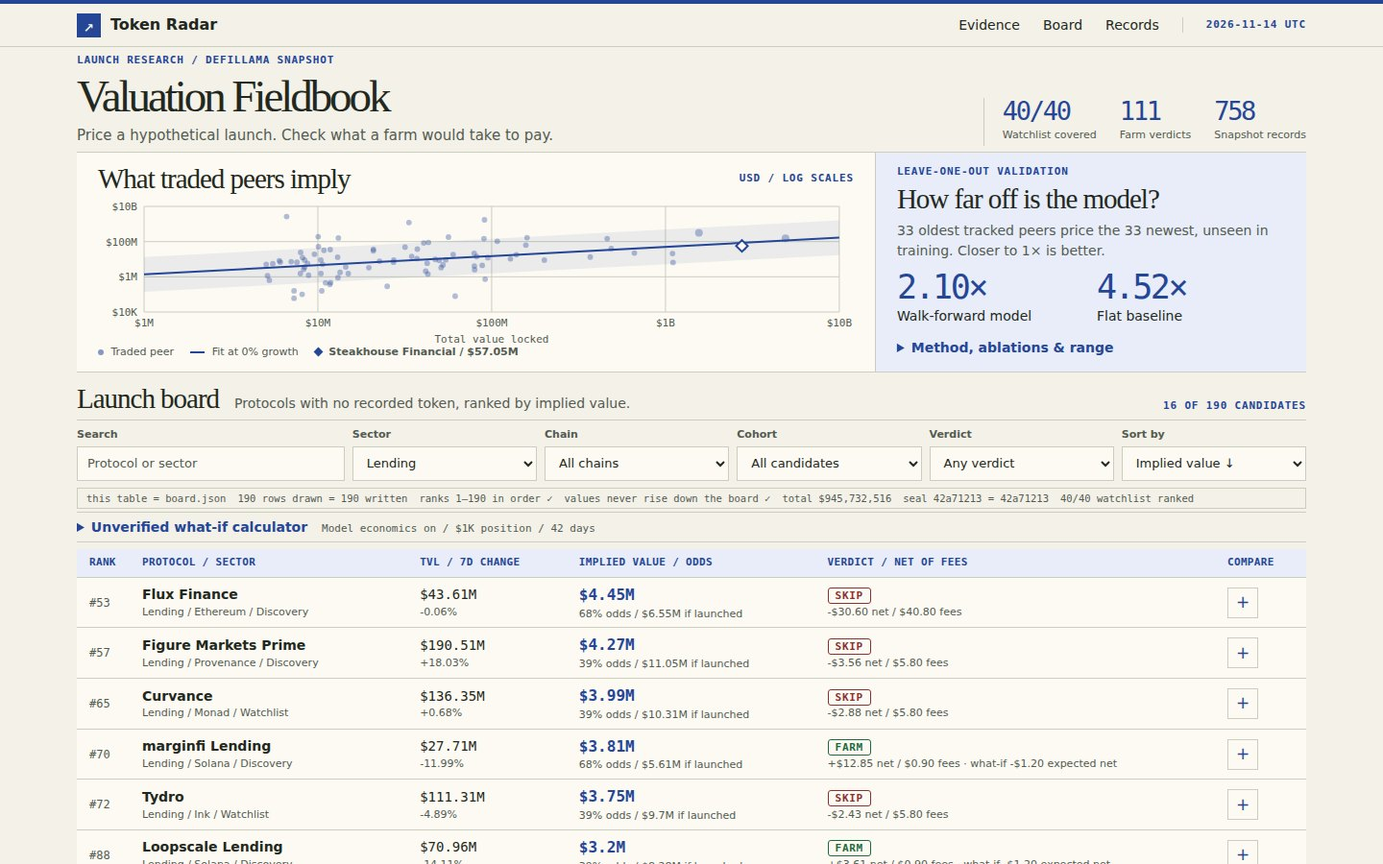
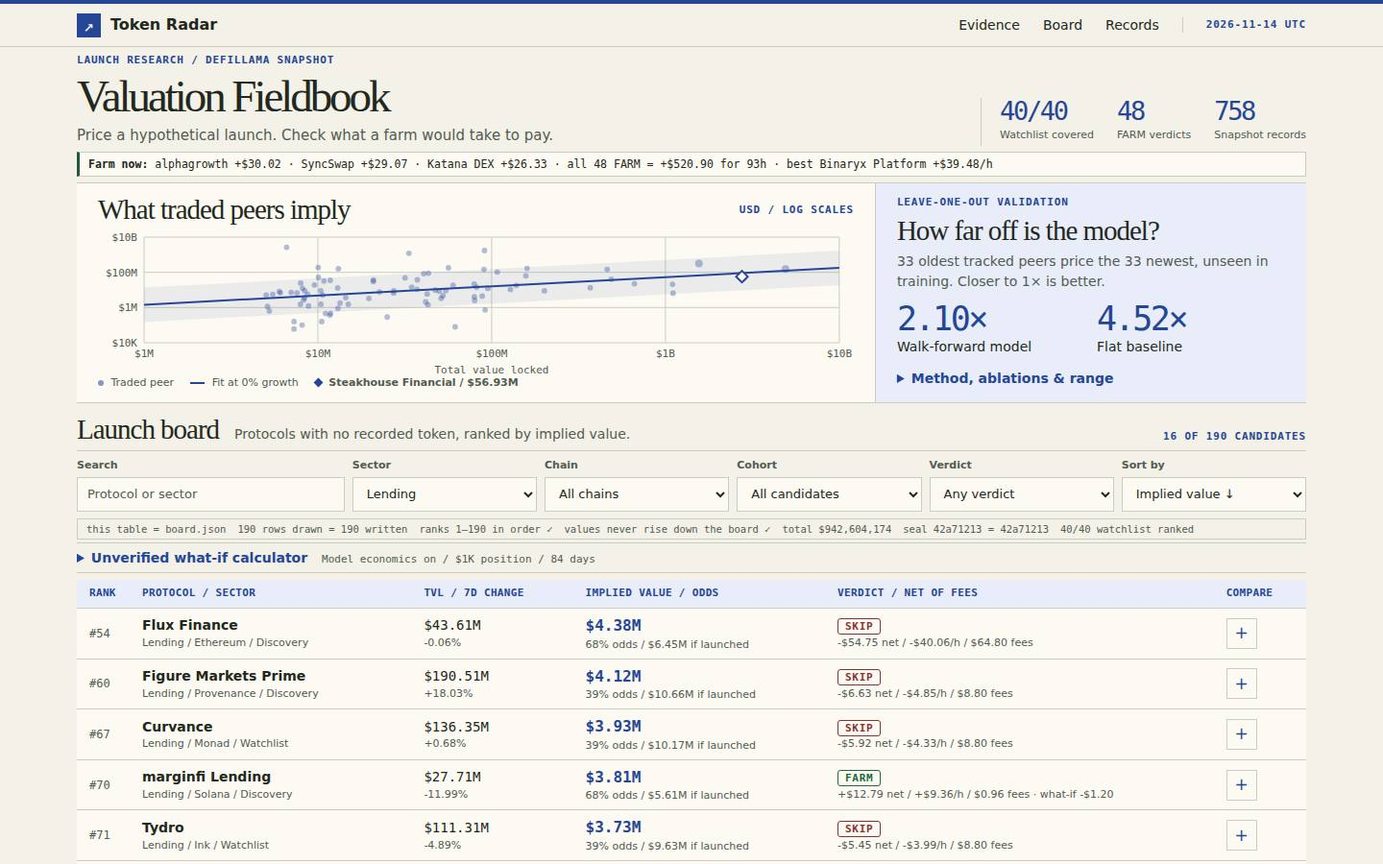
Split farm verdicts by the T-bill hurdle and lead with the decision
FARM now clears both fees and the yield the capital gives up; THIN clears
fees only. Holds run in 12-week blocks with a renewal budget from the cohort
odds. Momentum reads against the market's median week instead of zero, the
board opens with a farm-now strip and per-hour nets, and every dossier starts
with the arithmetic that decides it. Claims warn against paying and remind
to revoke approvals. Screenshots re-encoded smaller to keep the dossier lean.

diff --git a/dashboard/app.js b/dashboard/app.js
@@ -22,6 +22,10 @@
   const chosen = new Set();
   const pageSize = 10;
   let page = 0, active = rows[0], scenario = { ...defaults };
+  const farmRows = rows.filter(r => r.verdict === 'FARM');
+  const portfolioNet = farmRows.reduce((s, r) => s + r.plan.econ.netAfterYield, 0);
+  const portfolioMin = farmRows.reduce((s, r) => s + r.plan.econ.minutes, 0);
+  const bestHour = rows.reduce((b, r) => (r.plan.econ.netPerHour ?? -Infinity) > (b?.plan.econ.netPerHour ?? -Infinity) ? r : b, null);
   let previousFocus;
 
   function renderChart() {
@@ -58,14 +62,15 @@
 
   function renderEvidence() {
     $('edition').textContent = `${data.as_of} UTC`;
-    $('coverage').innerHTML = [[`${counts.covered}/${counts.watch}`, 'Watchlist covered'], [counts.farm, 'Farm verdicts'], [counts.total, 'Snapshot records']]
+    $('coverage').innerHTML = [[`${counts.covered}/${counts.watch}`, 'Watchlist covered'], [counts.farm, 'FARM verdicts'], [counts.total, 'Snapshot records']]
       .map(([value, label]) => `<div><strong>${value}</strong><span>${label}</span></div>`).join('');
+    $('farm-now').innerHTML = `<b>Farm now:</b> ${farmRows.slice().sort((a,b)=>b.plan.econ.netAfterYield-a.plan.econ.netAfterYield).slice(0,3).map(r => `${esc(r.name)} ${signed(r.plan.econ.netAfterYield)}`).join(' · ')} · all ${farmRows.length} FARM = ${signed(portfolioNet)} for ${(portfolioMin/60).toFixed(0)}h · best ${esc(bestHour.name)} ${signed(bestHour.plan.econ.netPerHour)}/h`;
     const wf = validation.walk_forward;
     $('validation-intro').textContent = `${wf.train_n} oldest tracked peers price the ${wf.test_n} newest, unseen in training. Closer to 1× is better.`;
     $('validation').innerHTML = `<div><strong class="metric">${times(wf.model_miss)}</strong><span>Walk-forward model</span></div><div><strong class="metric">${times(wf.baseline_miss)}</strong><span>Flat baseline</span></div>`;
     const cohort = data.odds_cohort;
     const premiums = data.category_premiums.filter(c => c.n >= 2).sort((a, b) => b.n - a.n || a.category.localeCompare(b.category, 'en'));
-    $('methods').innerHTML = `<p><b>Formula.</b> implied value = e^(${fit.intercept.toFixed(4)} + ${fit.slope.toFixed(4)} × ln(TVL / $100M) + ${fit.momentum.toFixed(4)} × g) × seasoning × category premium × launch odds. The weekly term g = clamp(7-day TVL change, −30, +30) / 30, 0 when missing. Ridge penalties 2 and 12; slope bounded 0–1.5, growth ±0.25. The conditional value (before odds) is shown separately in every dossier.</p>
+    $('methods').innerHTML = `<p><b>Formula.</b> implied value = e^(${fit.intercept.toFixed(4)} + ${fit.slope.toFixed(4)} × ln(TVL / $100M) + ${fit.momentum.toFixed(4)} × g) × seasoning × category premium × launch odds. Relative momentum g = clamp(7-day TVL change − market median week (${data.market_median_change_7d.toFixed(1)}%), −30, +30) / 30; a missing week reads as the market itself. Ridge penalties 2 and 12; slope bounded 0–1.5, growth ±0.25. The conditional value (before odds) is shown separately in every dossier.</p>
       <p><b>Launch odds.</b> ${esc(cohort.disclosure)}</p>
       <table class="sensitivity"><caption>Cohort launch odds / sealed snapshot</caption><thead><tr><th>Tracking age</th><th>n</th><th>Launched</th><th>Raw rate</th><th>Applied odds</th></tr></thead><tbody>${cohort.buckets.map(b => `<tr><th>${esc(b.label)}</th><td>${b.n}</td><td>${b.launched}</td><td>${b.n ? oddsPct(b.raw_rate) : 'n/a'}</td><td>${oddsPct(b.rate)}</td></tr>`).join('')}<tr><th>No tracking date</th><td colspan="3">Disclosed conservative prior</td><td>${oddsPct(cohort.prior)}</td></tr></tbody></table>
       <p><b>Category premium.</b> Median gap between a category's traded tokens and the curve, shrunk toward 1× by n/(n+5) and clamped to 0.5–2×. Categories without traded peers stay at 1×.</p>
@@ -120,7 +125,7 @@
       ${shown.map(({ row, result }) => `<tr><td>#${row.rank}</td><td class="name"><button type="button" class="protocol" data-open="${esc(row.slug)}">${esc(row.name)}</button><small>${esc(row.category ?? 'Unclassified')} / ${esc(row.plan.chain)} / ${row.cohort}</small></td>
         <td class="tvl num"><span class="sr">TVL </span>${usd(row.tvl_usd)}<small class="${row.change_7d < 0 ? 'down' : 'up'}">${pct(row.change_7d)}</small></td>
         <td class="value num"><span class="sr">Implied value </span><strong>${usd(row.implied_value_usd)}</strong><small>${oddsPct(row.launch_odds)} odds / ${usd(row.conditional_value_usd)} if launched</small></td>
-        <td class="farm">${badge(row.verdict)}<small>${signed(row.plan.econ.net)} net / ${cash(row.plan.econ.totalCost)} fees${result ? ` · what-if ${signed(result.expectedNet)} expected net` : ''}</small></td><td class="select">${compareButton(row)}</td></tr>`).join('')}
+        <td class="farm">${badge(row.verdict)}<small>${signed(row.plan.econ.net)} net / ${row.plan.econ.netPerHour == null ? 'n/a' : signed(row.plan.econ.netPerHour) + '/h'} / ${cash(row.plan.econ.totalCost)} fees${result ? ` · what-if ${signed(result.expectedNet)}` : ''}</small></td><td class="select">${compareButton(row)}</td></tr>`).join('')}
       </tbody></table>` : '<p class="empty">No candidates match. Change a filter or <button type="button" data-clear>clear filters</button>.</p>';
     $('pager').hidden = !total;
     $('page-info').textContent = `${start + 1}–${Math.min(start + pageSize, total)} of ${total}`;
@@ -140,6 +145,9 @@
 
   function renderDetail() {
     const r = active, f = r.factors, m = r.plan.econ, e = economics(r, scenario);
+    const decision = m.verdict === 'SKIP'
+      ? `<p class="decision"><b>Skip this one:</b> ${esc(m.skipReason)}. ${cash(m.totalCost)} modeled fees against ${cash(m.expected)} expected at ${oddsPct(m.odds)} odds — the arithmetic does not pay at ${cash(m.deposit)}.</p>`
+      : `<p class="decision"><b>${m.verdict === 'FARM' ? 'Farm it' : 'Thin — farm only if terms verify'}:</b> ${signed(m.net)} net of fees, ${signed(m.netAfterYield)} after the ${oddsPct(m.altYield)} T-bill give-up, ${m.netPerHour == null ? 'n/a' : signed(m.netPerHour)}/hour over ${(m.minutes/60).toFixed(1)} h of work. Fees are covered from ${m.breakEvenOdds == null ? 'n/a' : oddsPct(m.breakEvenOdds)} launch odds up; the model says ${oddsPct(m.odds)}. A ${oddsPct(m.altYield)} T-bill would pay ${cash(m.incomeForgone)} on ${cash(m.deposit)} over ${m.days} days${m.verdict === 'FARM' ? ', and the expected drop beats that' : '; the drop clears fees but not that hurdle'}. Renew in 12-week blocks, up to ${m.holdBlocks}.</p>`;
     const modelLedger = ledger([
       ['Sized deposit (≤2% of TVL)', cash(m.deposit)], [`Gas / ${m.gasTxs} tx on ${esc(m.chain)}`, cash(m.fees.gas)],
       ['Slippage / bridge', `${cash(m.fees.slippage)} / ${cash(m.fees.bridge)}`], ['Yield give-up (disclosed)', cash(m.incomeForgone)],
@@ -160,7 +168,7 @@
       }).join('')}</tbody></table><p class="muted">Only the hypothetical reward pool changes: half/base/double. Deposits, costs, capital, hold and odds stay fixed. Valuation and snapshot TVL never enter this payout.</p>` : '';
     $('detail').innerHTML = `<header class="detail-header"><div class="heading"><div><p class="label">Protocol dossier / Rank ${r.rank} / ${r.cohort} / ${badge(r.verdict)}</p><h2 id="dossier-title">${esc(r.name)}</h2><p class="muted">${esc(r.category ?? 'Unclassified')} / ${esc(r.plan.chain)} / No recorded token</p></div><div class="detail-controls">${compareButton(r)}<button type="button" data-close autofocus>Close dossier</button></div></div>
       <div class="detail-kpis"><div><strong>${usd(r.implied_value_usd)}</strong><span>Implied value × ${oddsPct(r.launch_odds)} odds</span></div><div><strong>${usd(r.conditional_value_usd)}</strong><span>Value if it launches</span></div><div><strong>${signed(m.net)}</strong><span>Model net of fees</span></div><div><strong>${pct(r.change_7d)}</strong><span>7-day TVL change</span></div></div></header>
-      <div class="detail-columns"><article><h3>Farm plan / ${esc(r.plan.title)}</h3><p class="muted">${r.plan.research ? 'Skip verdict: the steps below cost the hypothesis and explain the economics without allocating funds.' : `${cash(m.deposit)} sized position / ${m.days} days. Disclosed assumptions, not observed terms; verify the deployment first.`}</p>
+      <div class="detail-columns"><article>${decision}<h3>Farm plan / ${esc(r.plan.title)}</h3><p class="muted">${r.plan.research ? 'Skip verdict: the steps below cost the hypothesis and explain the economics without allocating funds.' : `${cash(m.deposit)} sized position / ${m.days} days. Disclosed assumptions, not observed terms; verify the deployment first.`}</p>
         <ol class="timeline">${r.plan.steps.map(s => `<li><strong>${esc(s.title)}</strong><small>${esc(s.when)} / ${esc(s.time)} / ${esc(s.cost)}</small><p>${esc(s.action)}</p></li>`).join('')}</ol>
         <h3>Model economics / disclosed assumptions</h3>${modelLedger}${whatIf}
       </article><article><h3>Valuation ledger</h3>${ledger([

diff --git a/lib/model.ts b/lib/model.ts
@@ -81,26 +81,32 @@ export function quantile(values: number[], q: number) {
 
 export const trackingDays = (p: Protocol, asOf: string) => p.listed_at === null ? null : (Date.parse(asOf) - Date.parse(p.listed_at)) / DAY;
 export const maturity = (days: number | null) => 0.82 + 0.18 * clamp((days ?? 730) / 1460, 0, 1);
-export const growthInput = (p: Protocol) => clamp(p.change_7d ?? 0, -30, 30) / 30;
+// Relative momentum: the protocol's weekly move minus the market's median
+// week, so a -2% week in a -8% market reads as strength, not weakness.
+export const marketMedianChange = (protocols: Protocol[]) => {
+  const xs = protocols.map(p => p.change_7d).filter((x): x is number => x !== null);
+  return xs.length ? quantile(xs, 0.5) : 0;
+};
+export const growthInput = (p: Protocol, median = 0) => clamp((p.change_7d ?? median) - median, -30, 30) / 30;
 const scale = (p: Protocol) => Math.log(p.tvl_usd / 100_000_000);
 const capLog = (p: Protocol) => Math.log(p.mcap_usd!);
 
 // Ridge least squares on centered log TVL and clipped growth. Keep the growth
 // coefficient bounded, then re-solve intercept and slope with that coefficient.
-export function fitCurve(peers: Protocol[], growth = true) {
+export function fitCurve(peers: Protocol[], growth = true, median = 0) {
   const n = peers.length;
   if (n < 2) throw new Error('Need at least two observations per refit.');
   const mean = (fn: (p: Protocol) => number) => peers.reduce((s, p) => s + fn(p), 0) / n;
-  const mx = mean(scale), mg = mean(growthInput), my = mean(capLog);
+  const mx = mean(scale), mg = mean(p => growthInput(p, median)), my = mean(capLog);
   let xx = 0, gg = 0, xg = 0, xy = 0, gy = 0;
   for (const p of peers) {
-    const x = scale(p) - mx, g = growthInput(p) - mg, y = capLog(p) - my;
+    const x = scale(p) - mx, g = growthInput(p, median) - mg, y = capLog(p) - my;
     xx += x * x; gg += g * g; xg += x * g; xy += x * y; gy += g * y;
   }
   const a = xx + 2, d = gg + 12;
   const momentum = growth ? clamp((a * gy - xg * xy) / (a * d - xg * xg), -0.25, 0.25) : 0;
   const slope = clamp((xy - xg * momentum) / a, 0, 1.5);
-  return { intercept: my - slope * mx - momentum * mg, slope, momentum };
+  return { intercept: my - slope * mx - momentum * mg, slope, momentum, median };
 }
 
 export type Fit = ReturnType<typeof fitCurve>;
@@ -116,7 +122,7 @@ export function categoryPremiums(peers: Protocol[], fit: Fit): Map<string, Premi
   const gaps = new Map<string, number[]>();
   for (const p of peers) {
     if (!p.category) continue;
-    const gap = capLog(p) - Math.log(curveValue(p.tvl_usd, fit)) - fit.momentum * growthInput(p);
+    const gap = capLog(p) - Math.log(curveValue(p.tvl_usd, fit)) - fit.momentum * growthInput(p, fit.median);
     if (!gaps.has(p.category)) gaps.set(p.category, []);
     gaps.get(p.category)!.push(gap);
   }
@@ -134,21 +140,21 @@ export const premiumFor = (premiums: Map<string, Premium>, category: string | nu
 export function price(p: Protocol, asOf: string, fit: Fit, premiums?: Map<string, Premium>) {
   const age_days = trackingDays(p, asOf);
   const curve = curveValue(p.tvl_usd, fit);
-  const growth = Math.exp(fit.momentum * growthInput(p));
+  const growth = Math.exp(fit.momentum * growthInput(p, fit.median));
   const age = maturity(age_days);
   const premium = premiums ? premiumFor(premiums, p.category).factor : 1;
   const value = clamp(Math.round(curve * growth * age * premium), 1, MAX_VALUE);
   return { value, curve, growth, age, age_days, premium };
 }
 
-function validate(peers: Protocol[], asOf: string) {
+function validate(peers: Protocol[], asOf: string, median: number) {
   const variants = ['baseline', 'tvl', 'growth', 'age', 'full'] as const;
   const folds = peers.map((p, i) => {
     const train = peers.filter((_, j) => i !== j);
-    const fitted = fitCurve(train);
+    const fitted = fitCurve(train, true, median);
     const x = scale(p);
-    const curve = fitted.intercept + fitted.slope * x + fitted.momentum * growthInput(p);
-    const simple = fitCurve(train, false);
+    const curve = fitted.intercept + fitted.slope * x + fitted.momentum * growthInput(p, median);
+    const simple = fitCurve(train, false, median);
     const y = capLog(p);
     return {
       slug: p.slug,
@@ -188,17 +194,17 @@ function validate(peers: Protocol[], asOf: string) {
 // multiplicative miss against a flat log mcap/TVL multiple fitted on the same
 // training half. A genuine out-of-sample test in tracking time, though still
 // one snapshot date — not a historical price backtest.
-export function walkForward(peers: Protocol[], asOf: string) {
+export function walkForward(peers: Protocol[], asOf: string, median: number) {
   const dated = peers.filter(p => p.listed_at !== null)
     .sort((a, b) => lexical(a.listed_at!, b.listed_at!) || lexical(a.slug, b.slug));
   if (dated.length < 10) return null;
   const cut = Math.floor(dated.length / 2);
   const train = dated.slice(0, cut), test = dated.slice(cut);
-  const fitted = fitCurve(train);
+  const fitted = fitCurve(train, true, median);
   const flat = quantile(train.map(t => capLog(t) - Math.log(t.tvl_usd)), 0.5);
   const errors = test.map(p => ({
     slug: p.slug,
-    model: capLog(p) - Math.log(curveValue(p.tvl_usd, fitted)) - fitted.momentum * growthInput(p) - Math.log(maturity(trackingDays(p, asOf))),
+    model: capLog(p) - Math.log(curveValue(p.tvl_usd, fitted)) - fitted.momentum * growthInput(p, median) - Math.log(maturity(trackingDays(p, asOf))),
     baseline: capLog(p) - Math.log(p.tvl_usd) - flat,
   }));
   const miss = (key: 'model' | 'baseline') => Math.exp(quantile(errors.map(e => Math.abs(e[key])), 0.5));
@@ -229,8 +235,9 @@ export function buildRadar(snapshot: Snapshot) {
     return true;
   }).sort((a, b) => lexical(a.slug, b.slug));
   if (peers.length < 5) throw new Error('Need at least five independent token records with market caps.');
-  const fit = fitCurve(peers);
-  const simpleFit = fitCurve(peers, false);
+  const market_median_change_7d = marketMedianChange(protocols);
+  const fit = fitCurve(peers, true, market_median_change_7d);
+  const simpleFit = fitCurve(peers, false, market_median_change_7d);
   const premiums = categoryPremiums(peers, fit);
   const odds_cohort = cohortOdds(protocols, as_of);
   // Farm economics prices the conditional slice (value if it launches); the
@@ -239,8 +246,8 @@ export function buildRadar(snapshot: Snapshot) {
   const econFor = (p: Protocol, conditionalValue: number) => farmEconomics(p, { asOf: as_of, impliedValue: conditionalValue, odds: odds_cohort.oddsFor(trackingDays(p, as_of)) });
   // Validate plans for every source record, including excluded products.
   const sourcePlans = new Map(protocols.map(p => [p.slug, farmPlan(p, trackingDays(p, as_of), econFor(p, price(p, as_of, fit, premiums).value))]));
-  const validation = validate(peers, as_of);
-  const walk_forward = walkForward(peers, as_of);
+  const validation = validate(peers, as_of, market_median_change_7d);
+  const walk_forward = walkForward(peers, as_of, market_median_change_7d);
   const limits = [Math.min(...peers.map(p => p.tvl_usd)), Math.max(...peers.map(p => p.tvl_usd))];
   const candidates = classified.filter(({ status }) => status === 'Watchlist' || status === 'Discovery');
   const rows = candidates.map(({ p, status }) => {
@@ -278,7 +285,7 @@ export function buildRadar(snapshot: Snapshot) {
     tvl_only_value: r.valuation_sensitivity.tvl_only }));
   const exclusions = classified.filter(({ p }) => !ranked.has(p.slug)).map(({ p, status }) => ({ ...p, reason: status }));
   return {
-    as_of, source, floor_usd, rows, peers, fit, validation: { ...validation, top_rank_sensitivity: rankSensitivity, walk_forward }, exclusions, plan_audit,
+    as_of, source, floor_usd, rows, peers, fit, market_median_change_7d, validation: { ...validation, top_rank_sensitivity: rankSensitivity, walk_forward }, exclusions, plan_audit,
     odds_cohort: { buckets: odds_cohort.buckets, prior: odds_cohort.prior, disclosure: odds_cohort.disclosure },
     category_premiums: [...premiums.entries()].map(([category, v]) => ({ category, ...v })),
     econ_defaults: ECON_DEFAULTS,

diff --git a/lib/farm.ts b/lib/farm.ts
@@ -67,10 +67,10 @@ function farmSteps(p: Protocol, e: FarmEconomics, age: number | null) {
       action: `Once a week ${maintenanceFor(p.category)} on ${p.name}, so the wallet shows ${e.weeks} separate active weeks rather than one deposit. Maintenance over the hold: ${usd(round2(weeklyGas * e.weeks))} across ${route.weeklyTxs * e.weeks} transactions, about ${route.weeklyMin} min weekly.` },
     { title: 'Hold the stop rule', when: 'Weekly check', time: '5 min weekly', cost: '$0 read-only',
       action: `For ${p.slug}: withdraw if TVL falls under ${usd(e.stopTvl)} (stop level) or withdrawals pause. ${p.change_7d === null ? 'Weekly change is unreported, so a flat 10% stop applies.' : `The stop is twice its ${p.change_7d}% weekly swing, floored at 10%.`} Also exit if terms or asset identity change; do not average down.` },
-    { title: 'Review and exit', when: e.reviewDate, time: `${route.exitMin} min plus settlement`, cost: `${usd(exitGas)} assumed gas`,
-      action: `On ${e.reviewDate} (or at the stop level, whichever comes first) withdraw the ${usd(e.deposit)} from ${p.name}; redemptions can settle in days, so start early. Quote the full exit back to the deposit asset${e.needsBridge ? ' through the verified bridge' : ''}. If a token is announced, claim only via the official domain bookmarked on day 0 — never a link sent to you.` },
+    { title: 'Review, renew or exit', when: e.reviewDate, time: `${route.exitMin} min plus settlement`, cost: `${usd(exitGas)} assumed gas`,
+      action: `On ${e.reviewDate} (or at the stop level, whichever comes first) review the block: renew for another 12-week block only while the arithmetic still pays — budget up to ${e.holdBlocks} block(s) at ${pct(e.odds)} cohort odds. Otherwise withdraw the ${usd(e.deposit)} from ${p.name}; redemptions can settle in days. If a token is announced, claim only via the official domain bookmarked on day 0, never pay to claim, then revoke approvals.` },
     { title: 'The modeled arithmetic', when: 'Summary', time: `${e.minutes} min total hands-on`, cost: `${usd(e.totalCost)} fees + ${usd(e.incomeForgone)} yield give-up`,
-      action: `${p.name}: ${pct(e.odds)} cohort odds × ${usd(e.sliceIfLaunch)} slice if it launches = ${usd(e.expected)} expected, minus ${usd(e.totalCost)} fees = net ${e.net >= 0 ? '+' : ''}${usd(e.net)} over ${e.days} days (${usd(e.netAfterYield)} after yield give-up)${e.netPerHour !== null ? `, about ${usd(e.netPerHour)}/hour` : ''}. Verdict ${e.verdict}${e.breakEvenOdds !== null ? `; break-even at ${pct(e.breakEvenOdds)} odds` : ''}. A model figure, not a promise.` },
+      action: `${p.name}: ${pct(e.odds)} cohort odds × ${usd(e.sliceIfLaunch)} slice = ${usd(e.expected)} expected, minus ${usd(e.totalCost)} fees = net ${e.net >= 0 ? '+' : ''}${usd(e.net)}; after ${pct(e.altYield)} T-bill give-up ${e.netAfterYield >= 0 ? '+' : ''}${usd(e.netAfterYield)}${e.netPerHour !== null ? `, ${usd(e.netPerHour)}/hour` : ''}. ${e.verdict === 'FARM' ? 'FARM: clears fees and the T-bill hurdle' : 'THIN: clears fees only'}${e.breakEvenOdds !== null ? `; break-even at ${pct(e.breakEvenOdds)} odds` : ''}. A model figure, not a promise.` },
   ];
 }
 

diff --git a/lib/economics.ts b/lib/economics.ts
@@ -95,7 +95,7 @@ export const FALLBACK_ROUTE: Route = { entryTxs: 3, exitTxs: 3, weeklyTxs: 1, bp
 export const routeFor = (category: string | null): Route => ROUTES[category ?? ''] ?? FALLBACK_ROUTE;
 
 // Disclosed default scenario for the economic engine (assumptions, not advice).
-export const ECON_DEFAULTS = { capital: 1000, days: 42, airdropShare: 0.10, altYield: 0.04 };
+export const ECON_DEFAULTS = { capital: 1000, days: 84, airdropShare: 0.10, altYield: 0.04 };
 
 // Cheapest recorded chain by assumed gas; ties break lexically for determinism.
 export function cheapestChain(chains: string[]): { name: string; fee: number } {
@@ -242,6 +242,7 @@ export interface FarmEconomics {
   reviewDate: string;
   verdict: 'FARM' | 'THIN' | 'SKIP';
   skipReason: string | null;
+  holdBlocks: number;
 }
 
 export function farmEconomics(p: Protocol, ctx: EconContext): FarmEconomics {
@@ -291,17 +292,24 @@ export function farmEconomics(p: Protocol, ctx: EconContext): FarmEconomics {
   } else if (net <= 0) {
     verdict = 'SKIP';
     skipReason = 'fees eat the drop';
-  } else if (breakEvenOdds !== null && breakEvenOdds < odds * 0.8) {
+  } else if (netAfterYield > 0 && breakEvenOdds !== null && breakEvenOdds < odds * 0.8) {
+    // FARM clears both hurdles: out-of-pocket fees and the T-bill yield the
+    // capital gives up. THIN clears fees only.
     verdict = 'FARM';
   } else {
     verdict = 'THIN';
   }
+  // Block budgeting: one hold is a 12-week block. At the cohort's annual base
+  // rate, roughly 1/odds years of waiting is expected; budget that many blocks
+  // (capped at 6) and renew only while the arithmetic still pays. Disclosed
+  // planning assumption, not an observed launch schedule.
+  const holdBlocks = Math.min(6, Math.max(1, Math.round(1 / Math.max(odds, 0.05))));
 
   return {
     category: p.category, chain, chainFee, capital, days, weeks, airdropShare, altYield, odds,
     deposit, minTicket: route.minTicket, bps: route.bps, needsBridge: route.needsBridge,
     needsKYC: route.needsKYC, infraSkip, gasTxs,
     fees: { gas, bridge, slippage }, totalCost, incomeForgone, sliceIfLaunch, expected, net, netAfterYield,
-    breakEvenOdds, minutes, netPerHour, stopTvl, reviewDate, verdict, skipReason,
+    breakEvenOdds, minutes, netPerHour, stopTvl, reviewDate, verdict, skipReason, holdBlocks,
   };
 }

diff --git a/dashboard/app.css b/dashboard/app.css
@@ -113,6 +113,8 @@ body:has(dialog[open]) {overflow:hidden}
 .detail-kpis {display:grid;grid-template-columns:repeat(4,minmax(0,1fr));gap:10px;margin:12px 0}
 .detail-kpis strong {display:block;font:normal clamp(16px,2.4vw,28px) var(--mono);letter-spacing:-.055em;color:var(--blue)}
 .detail-kpis span {display:block;color:var(--muted);font-size:11px}
+.decision {padding:8px 10px;border:1px solid var(--rule);border-left:3px solid var(--blue);background:var(--wash);font-size:13px;line-height:1.55;margin-bottom:10px}
+.farm-now {margin:0 0 6px;padding:4px 9px;border:1px solid var(--rule);border-left:3px solid var(--green);background:var(--sheet);font:11.5px/1.4 var(--mono)}
 .badge {display:inline-block;padding:1px 7px;border:1px solid currentColor;border-radius:3px;font:600 11px var(--mono);letter-spacing:.06em}
 .b-FARM {color:#1c6b3c}
 .b-THIN {color:#8a6d1a}

diff --git a/main.ts b/main.ts
@@ -30,7 +30,7 @@ function run() {
   const snapshot_sha256 = createHash('sha256').update(bytes).digest('hex');
   const radar = { ...buildRadar(parseSnapshot(bytes.toString('utf8'))), snapshot_sha256 };
   const { rows, counts, as_of, source, fit, validation, exclusions, plan_audit } = radar;
-  const board = json({ as_of, source, snapshot_sha256, counts, fit, validation, exclusions, plan_audit,
+  const board = json({ as_of, source, snapshot_sha256, counts, fit, market_median_change_7d: radar.market_median_change_7d, validation, exclusions, plan_audit,
     odds_cohort: radar.odds_cohort, category_premiums: radar.category_premiums, econ_defaults: radar.econ_defaults, rows });
   if (Buffer.byteLength(board) > 8 * 1024 * 1024) throw new Error('board.json exceeds the 8 MiB gate cap.');
   for (const { slug, farm_steps } of rows) {

diff --git a/dashboard/index.html b/dashboard/index.html
@@ -22,6 +22,7 @@
     <header class="intro"><div><p class="label">Launch research / DefiLlama snapshot</p><h1>Valuation Fieldbook</h1><p class="deck">Price a hypothetical launch. Check what a farm would take to pay.</p></div>
       <div id="coverage" class="coverage" aria-label="Snapshot coverage"></div>
     </header>
+    <p class="farm-now" id="farm-now"></p>
     <section id="evidence" class="evidence" aria-label="Valuation evidence">
       <figure class="plot"><div class="heading"><h2>What traded peers imply</h2><span class="label">USD / log scales</span></div>
         <div id="chart"></div>

diff --git a/tests/browser_test.py b/tests/browser_test.py
@@ -49,12 +49,12 @@ def main():
             page.keyboard.press('Enter')
             assert page.locator('#board').evaluate('(e)=>e===document.activeElement')
             page.evaluate('window.scrollTo(0,0)')
-            page.screenshot(path=str(ROOT/'screenshots/1-board.jpg'), type='jpeg', quality=86)
+            page.screenshot(path=str(ROOT/'screenshots/1-board.jpg'), type='jpeg', quality=72)
             checks.append(f'desktop board, watchlist coverage, keyboard skip and {complete_rows} complete rows at 1440x900')
             page.locator('[data-open="steakhouse-financial"]').click()
             assert page.locator('#dossier').evaluate('(d)=>d.open')
             assert page.locator('#dossier-title').inner_text() == 'Steakhouse Financial'
-            page.screenshot(path=str(ROOT/'screenshots/2-detail.jpg'), type='jpeg', quality=86)
+            page.screenshot(path=str(ROOT/'screenshots/2-detail.jpg'), type='jpeg', quality=72)
             page.keyboard.press('Escape')
             assert not page.locator('#dossier').evaluate('(d)=>d.open')
             assert page.locator('[data-open="steakhouse-financial"]').evaluate('(e)=>e===document.activeElement')
@@ -110,7 +110,7 @@ def main():
             assert 'board.json' in page.locator('#audit').inner_text()
             assert '40/40' in page.locator('#audit').inner_text()
             page.evaluate('window.scrollTo(0,0)')
-            page.screenshot(path=str(ROOT/'screenshots/3-filtered.jpg'), type='jpeg', quality=86)
+            page.screenshot(path=str(ROOT/'screenshots/3-filtered.jpg'), type='jpeg', quality=72)
             checks.append('empty state, clear, sector filter, verdict filter, net sort and self-audit strip')
             for width in [390, 320, 768]:
                 page.set_viewport_size({'width':width,'height':844})
